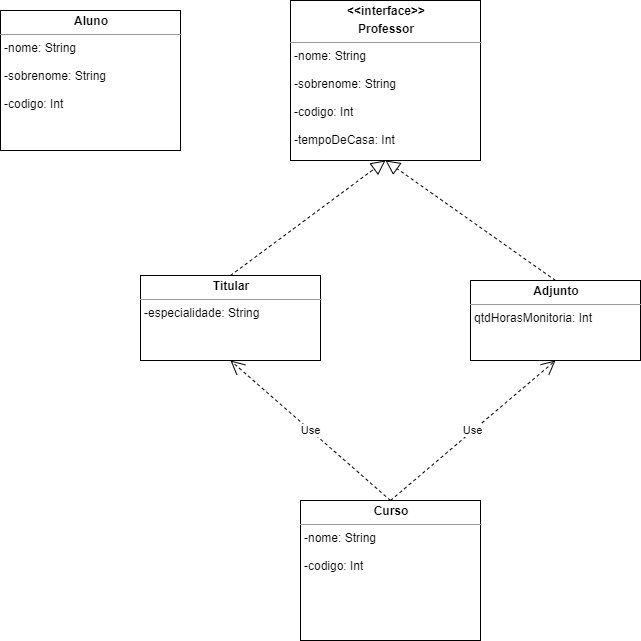
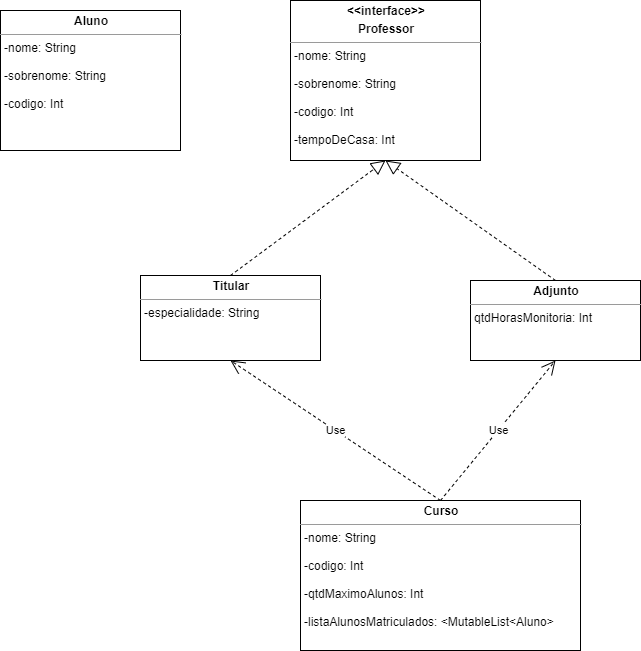
Complementações
Complementações obrigatorias.

diff --git a/src/br/desafioCurso/com/Curso.kt b/src/br/desafioCurso/com/Curso.kt
@@ -5,6 +5,8 @@ class Curso(
         var codigo: Int,
         var titular: Titular,
         var adjunto: Adjunto,
+        var qtdMaximaAlunos: Int,
+        var listaAlunosMatriculado: MutableList<Aluno>
 ) {
 
     override fun equals(other: Any?): Boolean {
